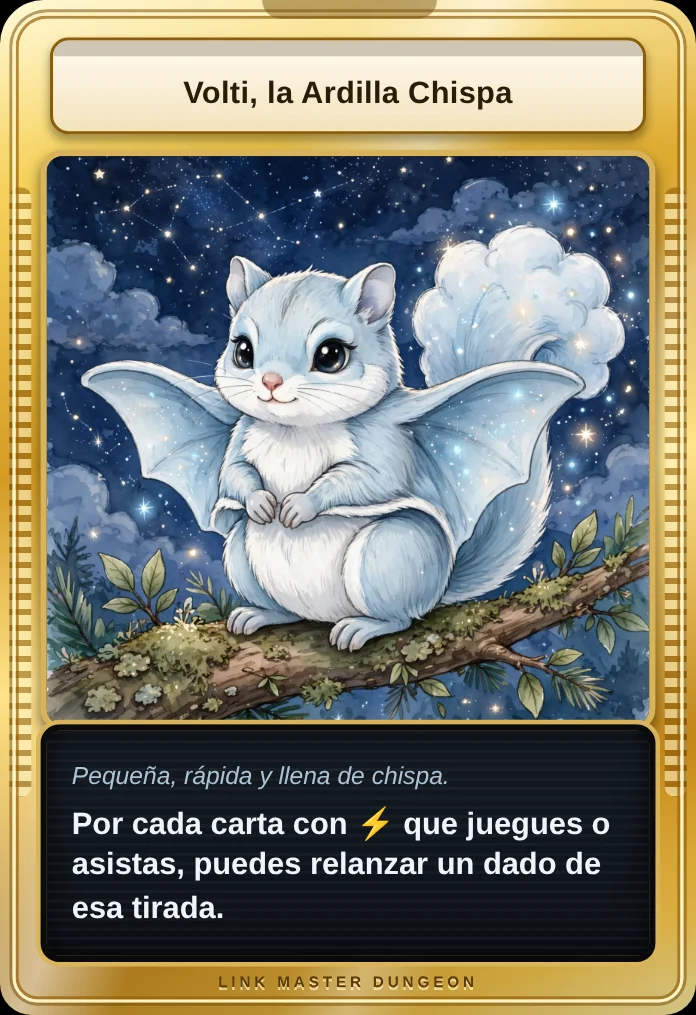
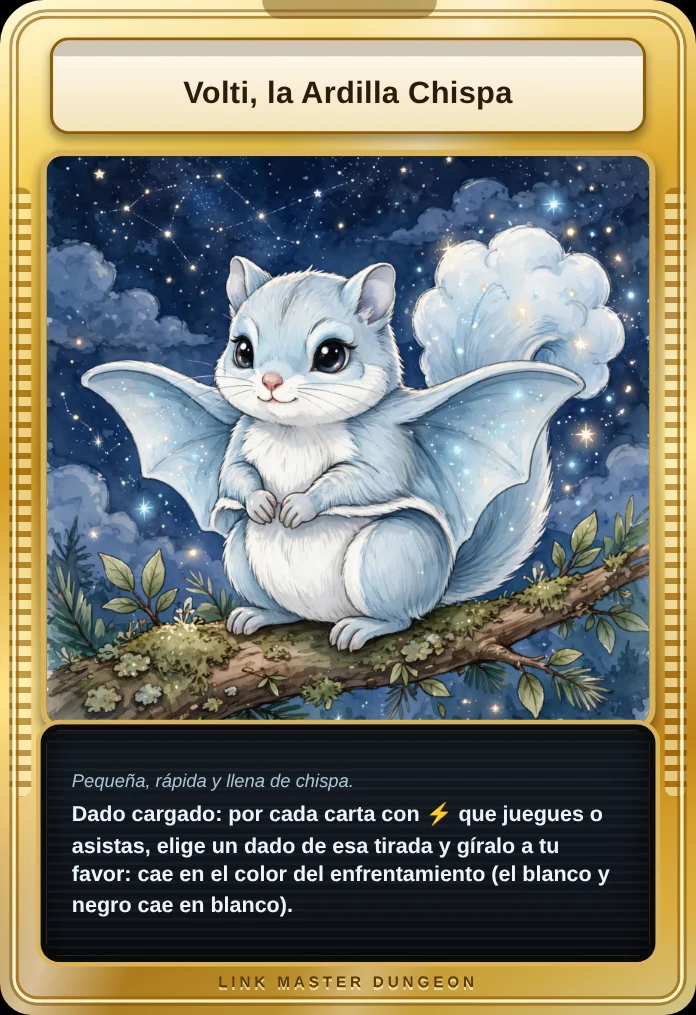
Volti: dado cargado (gira el dado elegido a su favor en lugar de relanzarlo)
Claude-Session: https://claude.ai/code/session_01SGPUyGANHi7UMmwxJVo2zu

Changed region(s): [[0.0905, 0.733, 0.875, 0.9163]]

diff --git a/index.html b/index.html
@@ -2461,16 +2461,17 @@ async function cine(color,nd,SP){
       const ca=[...$('#cA').children];
       for(let i=0;i<ca.length;i++){const e=ca[i],r=e.getBoundingClientRect();e.style.visibility='hidden';SFX.pop();await cfly(r,e.innerHTML,Ro.getBoundingClientRect(),550);v+=asv[i];popV(Ro,v);const [rx,ry]=ctr(Ro.getBoundingClientRect()),f=big('+'+asv[i],rx,ry-50,30);f.style.color='#fff';f.style.textShadow='0 2px 6px #000';f.style.fontWeight=700;f.animate([{opacity:1,transform:'translate(-50%,-50%)'},{opacity:0,transform:'translate(-50%,-140%)'}],{duration:700,fill:'forwards'}).finished.then(()=>f.remove());await wait(150)}
       if(ca.length)await wait(300)}
-    /* Volti (p19): por cada carta ⚡ que juegues o asistas, relanzas 1 dado (p05: 1 relanzamiento extra) */
+    /* Volti (p19), dado cargado: por cada carta ⚡ que juegues o asistas, eliges 1 dado y lo giras a tu favor (cae en el color del enfrentamiento; el blanco y negro cae en blanco). p05: 1 giro extra */
     const askDie=(n,only)=>new Promise(ok=>{const d=document.createElement('div');d.style.cssText='position:fixed;left:50%;transform:translateX(-50%);bottom:calc(env(safe-area-inset-bottom,0px) + 20px);z-index:43;width:min(92vw,360px);display:flex;flex-direction:column;gap:10px;background:#2f2b37;border-radius:18px;padding:14px;text-align:center;box-shadow:0 10px 40px #000a';
-      d.innerHTML=`<div>${only!==undefined?'🐶 Salto de Tuerca: ¿volver a lanzar el dado blanco y negro?':`⚡ Volti: ¿relanzar un dado? (${n} disponible${n>1?'s':''})`}</div><div class="btns">${dice.map((q,i)=>{if(only!==undefined&&i!==only)return '';const f=q.f[q.face];return `<button data-y="${i}" style="background:${COL[f]};color:${f==='blanco'||f==='verde'?'#111':'#fff'}">${i<3?'Dado '+(i+1):'Dado blanco/negro'} · ${f}</button>`}).join('')}<button class="ghost" data-y="-1">No relanzar</button></div>`;
+      d.innerHTML=`<div>${only!==undefined?'🐶 Salto de Tuerca: ¿volver a lanzar el dado blanco y negro?':`⚡ Dado cargado: elige un dado y gíralo a tu favor (${n} disponible${n>1?'s':''})`}</div><div class="btns">${dice.map((q,i)=>{if(only!==undefined&&i!==only)return '';const f=q.f[q.face],t=only===undefined?favF(i):-1,ok=only!==undefined||(t>=0&&t!==q.face);return `<button data-y="${i}"${ok?'':' disabled'} style="background:${COL[f]};color:${f==='blanco'||f==='verde'?'#111':'#fff'}${ok?'':';opacity:.35'}">${i<3?'Dado '+(i+1):'Dado blanco/negro'} · ${f}${only===undefined&&ok?' → '+q.f[t]:''}</button>`}).join('')}<button class="ghost" data-y="-1">${only!==undefined?'No relanzar':'No usar'}</button></div>`;
       d.onclick=e=>{const b=e.target.closest('[data-y]');if(!b)return;d.remove();ok(+b.dataset.y)};document.body.appendChild(d)});
+    const favF=i=>dice[i].f.findIndex(f=>i<3?f===color:f==='blanco'); /* cara a favor de cada dado (-1 si no tiene) */
     let RRW=(!SP&&act==='r06')?1:0;let RRN=(!SP&&PC()==='p'&&act)?(ico(act,0)?1:0)+B.as.filter(x=>ico(x,1)).length+(act==='p05'?1:0):0; /* un relanzamiento por cada carta ⚡ jugada o asistida */
     const rrDo=async()=>{
       if(SP){for(;;){const m=await cmWait('rr');if(!m||m.stop)return;await roll(color,null,m.faces,m.i);await wait(500)}}
       while(RRW>0){const i=await askDie(1,3);RRW=0;if(i<0)break;const F=dice.map(d=>d.face);F[i]=Math.floor(Math.random()*6);cmSend({t:'rr',i,faces:F});const tk=setInterval(()=>SFX.tick(),130);try{await roll(color,null,F,i)}finally{clearInterval(tk)}await wait(500)}
-      while(RRN>0){const i=await askDie(RRN);if(i<0)break;RRN--;
-        const F=dice.map(d=>d.face);F[i]=Math.floor(Math.random()*6);cmSend({t:'rr',i,faces:F});
+      while(RRN>0&&dice.some((q,k)=>{const t=favF(k);return t>=0&&t!==q.face})){const i=await askDie(RRN);if(i<0)break;RRN--;
+        const F=dice.map(d=>d.face);F[i]=favF(i);cmSend({t:'rr',i,faces:F});
         const tk=setInterval(()=>SFX.tick(),130);try{await roll(color,null,F,i)}finally{clearInterval(tk)}await wait(500)}
       cmSend({t:'rr',stop:1})};
     const doRoll=async()=>{let F;if(SP){const m=await cmWait('roll');F=m&&m.faces}else{F=(TUT&&TUT.dice&&TUT.dice.length)?TUT.dice.shift():dice.map(()=>Math.floor(Math.random()*6));cmSend({t:'roll',faces:F})}
@@ -2699,7 +2700,7 @@ function hideLobby(){
 /* ficha del personaje elegido: su carta se anima y se explica cómo juega */
 const PJD={m:['🔥','Juega cartas de fuego: cada 🔥 que usas te hace robar cartas al final del turno para armar combos.'],
   l:['🗡','Juega cartas con 🗡: cada una quita PV extra a los enfrentamientos que no estás intentando.'],
-  p:['⚡','Juega cartas de rayo: cada ⚡ le deja relanzar un dado para no fallar la tirada.'],
+  p:['⚡','Juega cartas de rayo: cada ⚡ le deja girar un dado a su favor para no fallar la tirada.'],
   r:['🏮','Vence Combates con cartas 🏮 para cobrar su recompensa dos veces; su Arma copiada crece con cada Combate.'],
   n:['🚀','Cada vez que falla, Nova carga su disparo: la siguiente batalla con 🚀 suma toda la carga.']};
 var PJO=['m','l','p','r','n'];
